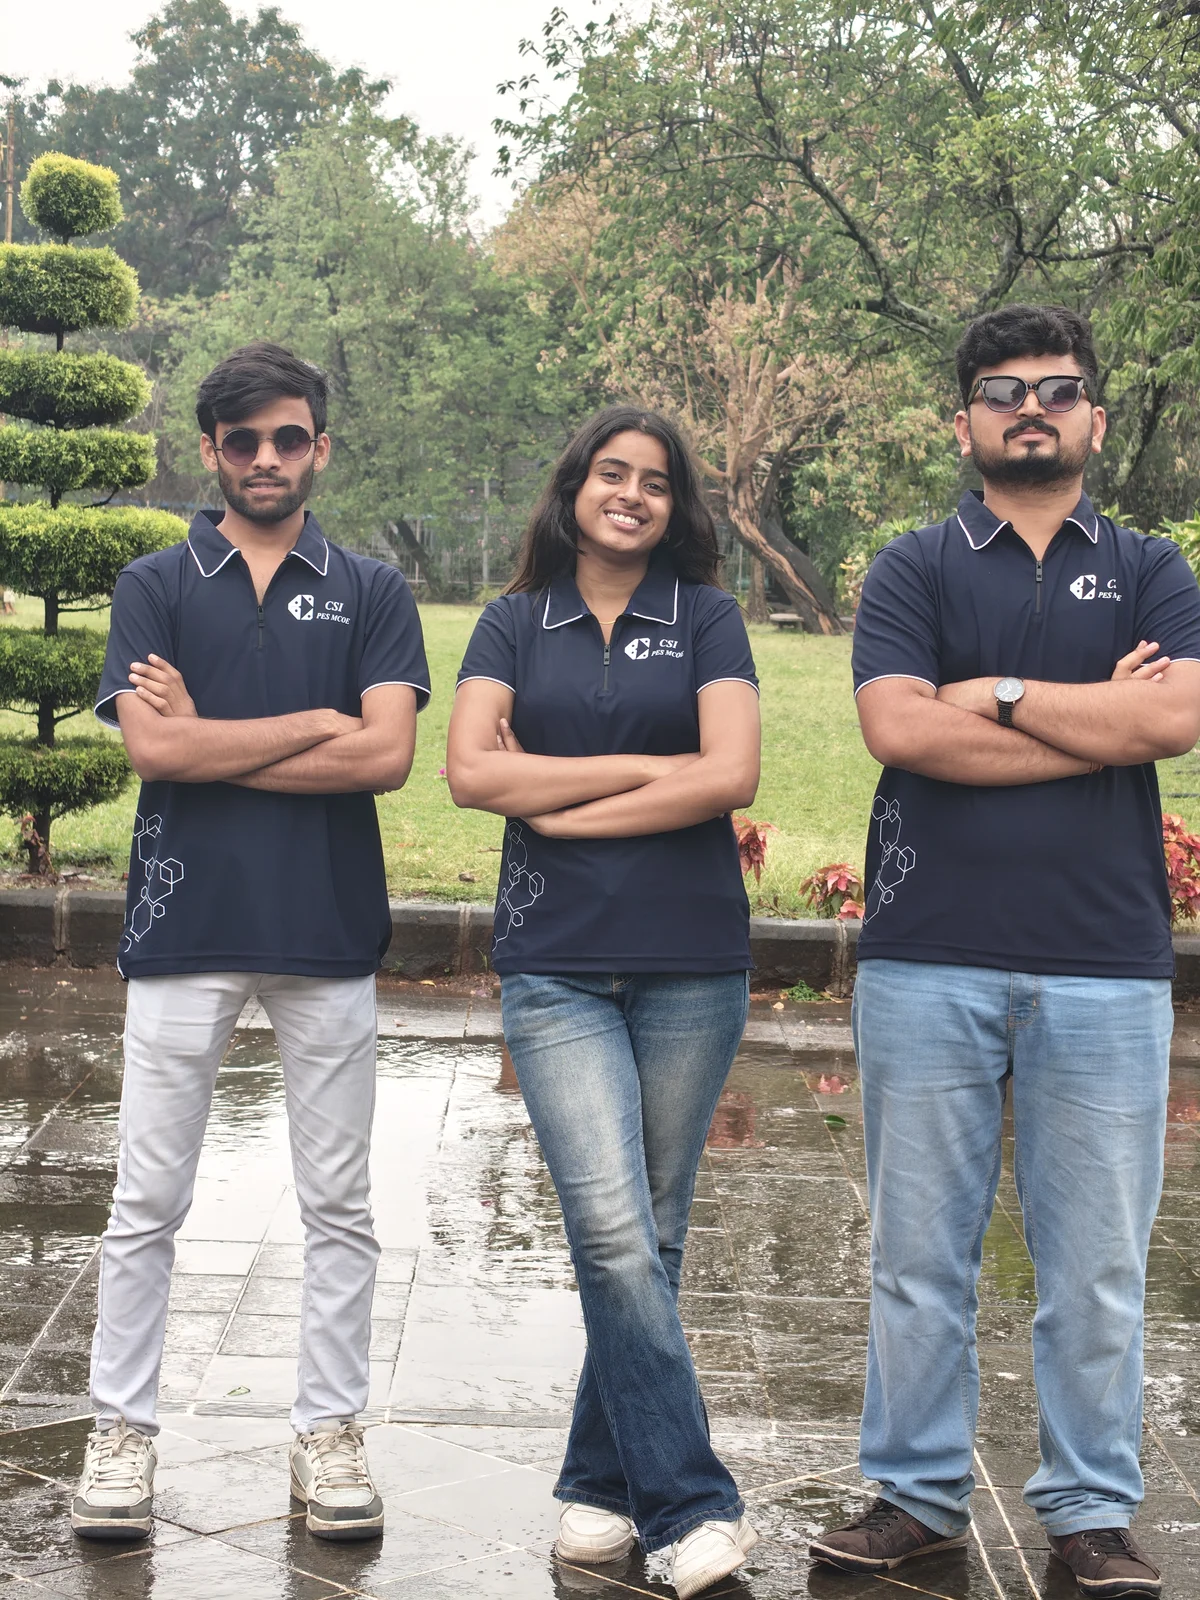
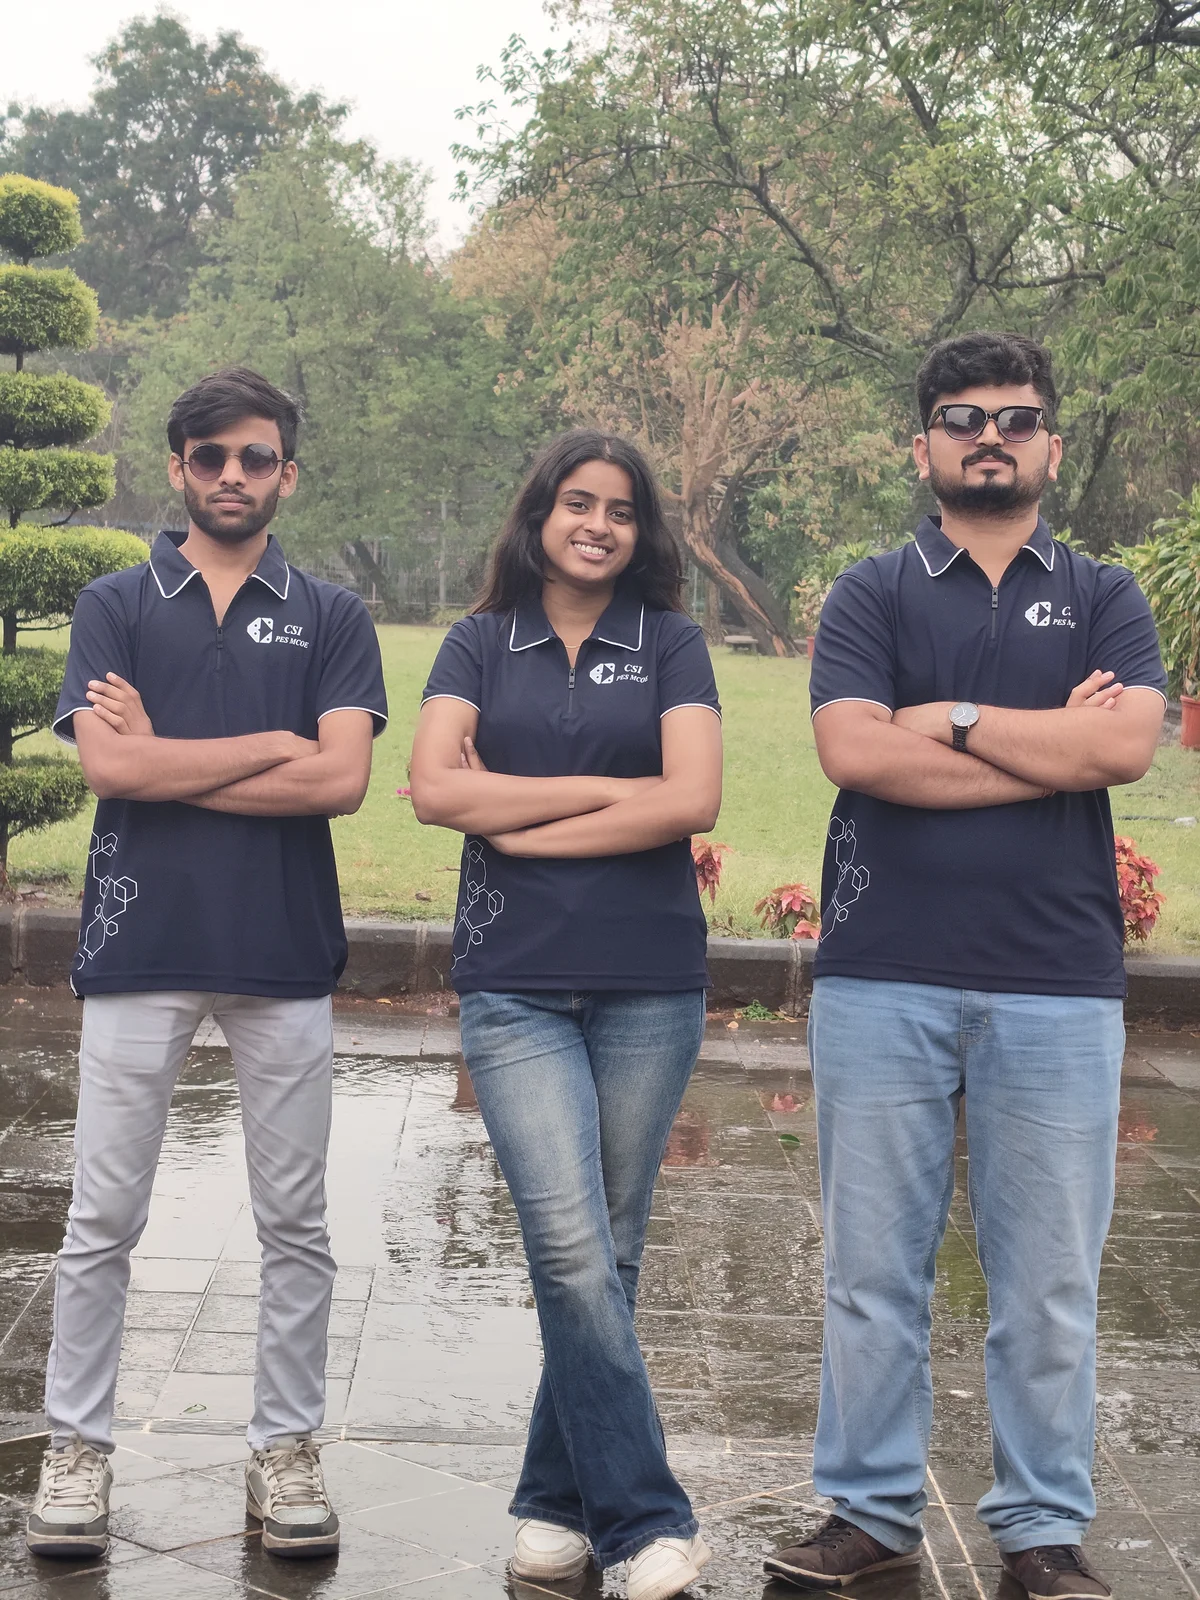
spelling mistakes resolved & pictures were updated

diff --git a/csi-nexus-main/src/data/teamMembers.ts b/csi-nexus-main/src/data/teamMembers.ts
@@ -1,16 +1,16 @@
 export const teamMembers = [
   { name: "Sanika Misal", role: "President" },
   { name: "Shubham Nalawade", role: "Vice President" },
-  { name: "Gaurav Nikam", role: "Secretary" },
+  { name: "Gourav Nikam", role: "Secretary" },
   { name: "Shashank Dattu", role: "Technical Head" },
   { name: "Shiva Ganyarpwar", role: "Co-Technical Head" },
-  { name: "Event Lead", role: "Event Management Head" },
+  { name: "Himanshu Bhagare", role: "Event Management Head" },
   { name: "Priyanshu Bhange", role: "Co-Event Management Head" },
   { name: "Vedant Porje", role: "Design Head" },
   { name: "Rutuja Pekam", role: "Co-Design Head" },
   { name: "Walmik Ingle", role: "Social Media Head" },
-  { name: "Vipul Shilmkar", role: "Co-Social Media Head" },
-  { name: "Mahesh pathade", role: "Marketing Head" },
+  { name: "Vipul Shilimkar", role: "Co-Social Media Head" },
+  { name: "Mahesh Pathade", role: "Marketing Head" },
   { name: "Madhura Patil", role: "Co-Marketing Head" },
   { name: "Kalyani Borse", role: "Documentation Head" },
   { name: "Krushna Raut", role: "Co-Documentation Head" },
